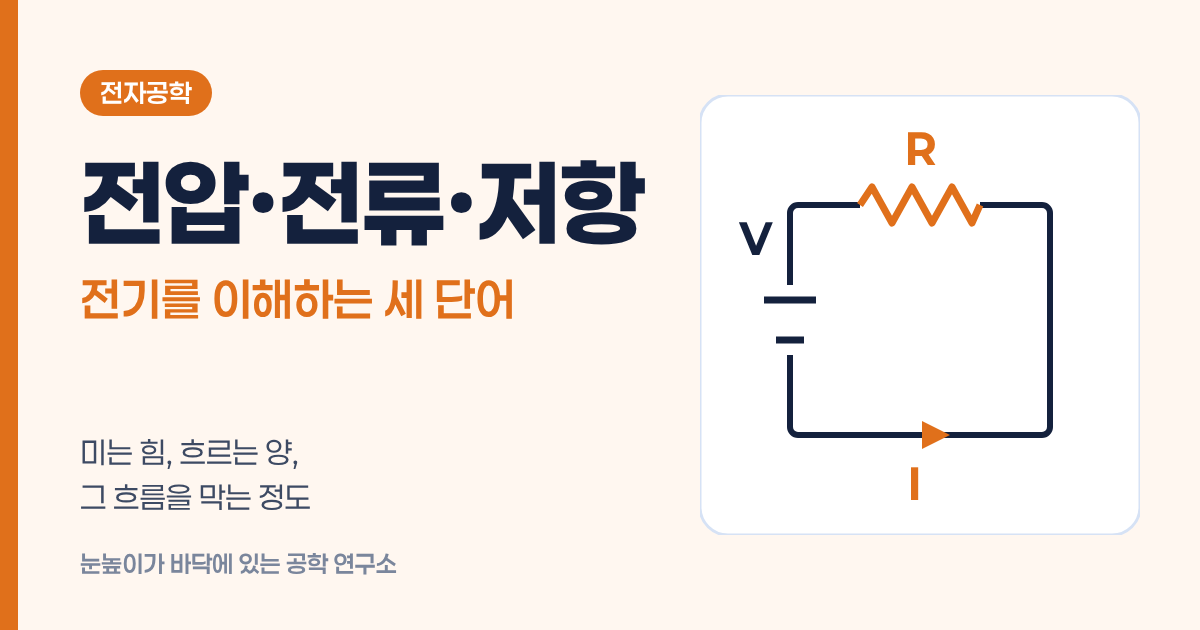
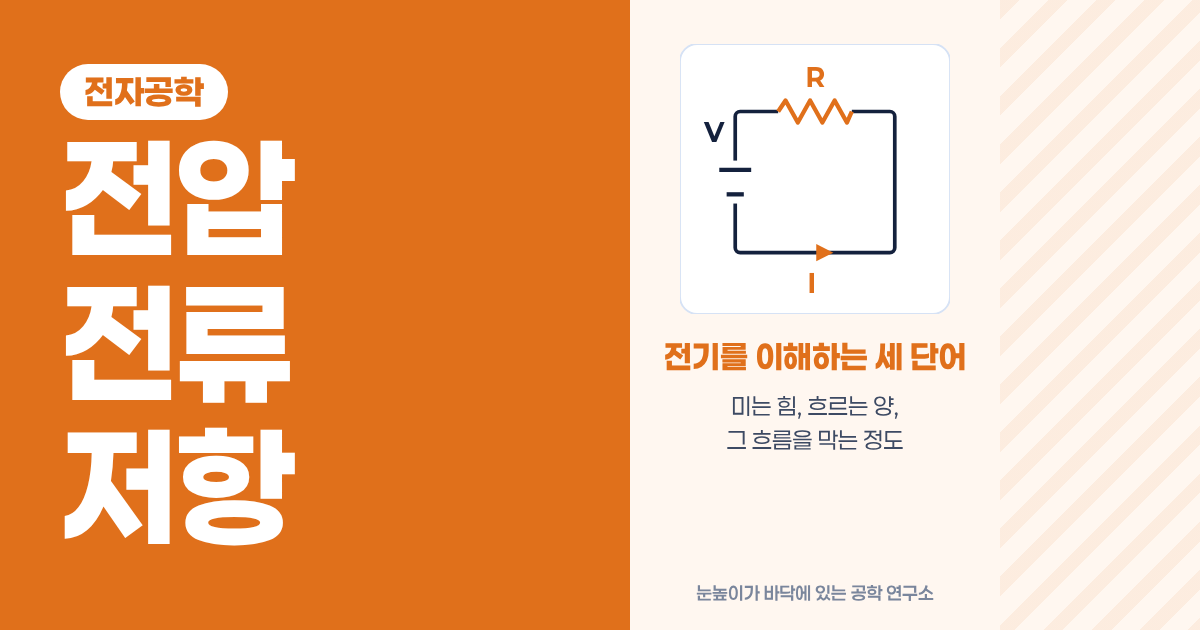
9편 표지 새 틀 적용, 소개 문장(summary) 추가
Claude-Session: https://claude.ai/code/session_01DR6nsVY4wjnLELXzx7ubGR

diff --git a/ai-110-first-step/index.md b/ai-110-first-step/index.md
@@ -4,6 +4,7 @@ field: 인공지능
 order: 110
 level: 기초
 tags: [머신러닝]
+summary: "인공지능은 데이터에서 규칙을 배워 처음 보는 상황에서도 판단하는 프로그램이에요. 판단할 때는 여러 답의 가능성을 따져 보고 보통 가장 그럴듯한 답을 골라요."
 notion_id: 40910cbca0ae815b9cfdd4eb5bcab9a4
 ---
 

diff --git a/ee-110-voltage-current-resistance/index.md b/ee-110-voltage-current-resistance/index.md
@@ -4,6 +4,7 @@ field: 전자공학
 order: 110
 level: 기초
 tags: [전자 기초]
+summary: "전기를 공부하면 가장 먼저 만나는 단어가 전압, 전류, 저항이에요. 전압은 전기를 미는 힘, 전류는 실제로 흐르는 전기의 양, 저항은 그 흐름을 막는 정도예요."
 notion_id: 40710cbca0ae81a5bfb4c1d7e2bd882c
 ---
 

diff --git a/ee-120-ohms-law/index.md b/ee-120-ohms-law/index.md
@@ -4,6 +4,7 @@ field: 전자공학
 order: 120
 level: 기초
 tags: [전자 기초, 옴의 법칙, 아두이노]
+summary: "옴의 법칙은 전압, 전류, 저항 세 가지가 서로 어떻게 움직이는지 하나의 식으로 묶은 거예요."
 notion_id: 40710cbca0ae81ffb803e0dd4145e939
 ---
 

diff --git a/ai-130-linear-regression/index.md b/ai-130-linear-regression/index.md
@@ -4,6 +4,7 @@ field: 인공지능
 order: 130
 level: 기초
 tags: [머신러닝]
+summary: "선형 회귀는 데이터 점들 사이를 가장 잘 지나는 직선을 찾고 그 직선으로 새 값의 숫자를 예측하는 방법이에요."
 notion_id: 40910cbca0ae811e995bef41118bb84a
 ---
 

diff --git a/ee-140-voltage-divider/index.md b/ee-140-voltage-divider/index.md
@@ -4,6 +4,7 @@ field: 전자공학
 order: 140
 level: 기초
 tags: [전자 기초, 아두이노]
+summary: "저항을 한 줄로 이으면 전원 전압을 저항 크기의 비율대로 나눠 가져요. 이걸 전압 분배라고 해요."
 notion_id: 40810cbca0ae8187aa2bfab5d7fd66ab
 ---
 

diff --git a/parts-120-resistor/index.md b/parts-120-resistor/index.md
@@ -4,6 +4,7 @@ field: 전자 부품
 order: 120
 level: 기초
 tags: [전자 기초, 아두이노]
+summary: "저항은 전류가 지나가기 어렵게 만들어서 흐름을 원하는 만큼 줄이는 부품이에요."
 notion_id: 40c10cbca0ae81808dd9ed3e3eefa0e4
 ---
 

diff --git a/parts-110-map/index.md b/parts-110-map/index.md
@@ -4,6 +4,7 @@ field: 전자 부품
 order: 110
 level: 기초
 tags: [전자 기초, 아두이노]
+summary: "전자 기기 속 부품은 하는 일에 따라 크게 다섯 갈래로 나눌 수 있어요."
 notion_id: 40910cbca0ae81aa99e8cfb5272d216e
 ---
 

diff --git a/ee-130-kirchhoff/index.md b/ee-130-kirchhoff/index.md
@@ -4,6 +4,7 @@ field: 전자공학
 order: 130
 level: 기초
 tags: [전자 기초, 아두이노]
+summary: "키르히호프의 법칙은 회로가 지키는 두 가지 규칙이에요."
 notion_id: 40810cbca0ae81648f7fd6c277a668e5
 ---
 
